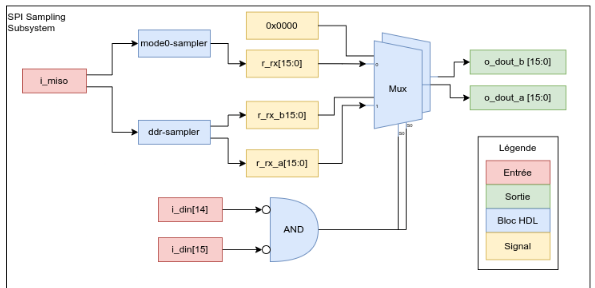
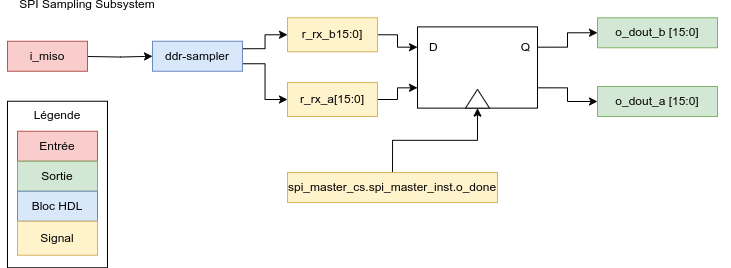
doc

diff --git a/README.md b/README.md
@@ -10,7 +10,7 @@ This repo is an implementation of a custom SPI driver that allows an FPGA to int
 
 The figure below shows the conceptual overview of the system. Since SPI is widely available as a normal peripheral, this implementation is not flexible enough to be used as a general-purpose SPI. With Xilinx FPGAs, an AXI interface should be used to expose the RHD SPI, located in the Programmable Logic (PL), to the Processing System (PS). Among others, this allows PYNQ to access it as a memory-mapped peripheral.
 
-Make sure the CS Inactive time is long enough, which is adjustable with the CLKS_PER_HALF_BIT parameter in `hdl/spi_master_cs.v`.
+Make sure the CS Inactive time is long enough, which is adjustable with the CLKS_PER_HALF_BIT parameter in `hdl/spi_master_cs.v`. This time is the minimum delay between consecutive _start_ commands. `o_done` does not toggle high before this time is elapsed.
 
 The module is interacted with like so:
 
@@ -23,7 +23,7 @@ The module is interacted with like so:
 
 ![System block](img/rhd-spi-system.png)
 
-The SPI sampling subsystem is a little bit trickier to implement, since Intan's RHD2164 CONVERT command has a very weird sampling pattern. Consequently, the SPI data reception is split into two branches, which are selectively chosen depending on the `i_din[15]` and `i_din[14]` bits. The figure below illustrates the block design. `DOUT_B[0]` from `spi_master` always returns 0, since it is sampled at `CS`'s rising edge. Thus, it is `spi_master_cs`'s responsibility to set the bit appropriately.  
+The SPI sampling subsystem is a little bit trickier to implement, since Intan's RHD2164 has a custom DDR pattern. The figure below illustrates the block design. `DOUT_B[0]` from `spi_master.v` always returns 0, since it is sampled at `CS`'s rising edge. Thus, it is `spi_master_cs.v`'s responsibility to sample MISO one last time when toggling CS high.  
 
 ![Sampling subsystem block](img/rhd-spi-sampling.png)
 
@@ -53,13 +53,11 @@ Generate the block design: `Tools -> Run tcl script -> <path-to-project>/vivado/
 
 You should now be ready to develop (you should still follow the [development setup](#hdl-development-setup)), simulate, generate the bitstream, etc.
 
+You can export build artifacts with the `vivado/copy-exported.sh` script, just make sure to set the right paths and project names in it.
+
 #### Zybo Z7-20
 
-If you have a Zybo Z7-20 board and want to skip the Vivado project creation, you may use the precompiled artifacts located under `vivado`:
-
-- `rhd-spi_wrapper_zybo_z720.bit` 
-- `rhd-spi_wrapper_zybo_z720.xsa` 
-- `rhd-spi_zybo_z720.xdc` 
+If you have a Zybo Z7-20 board and want to skip the Vivado project creation, you may use the precompiled artifacts located under `vivado/zybo-z720.
 
 ### Vitis
 
